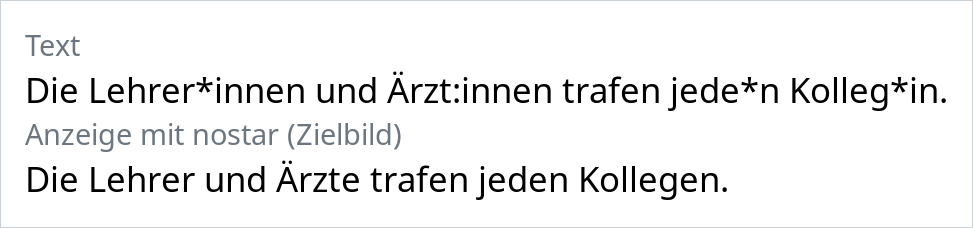
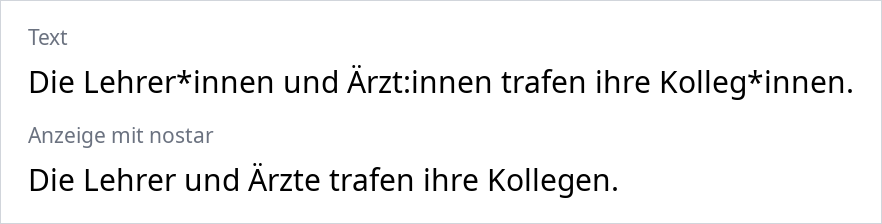
Bring README and specs in line with the implementation
- README: status, installation, real before/after image, Qt gap
- SPEZIFIKATION: status, compound forms, stage note in 4.5, harfrust
- TECHNIK: status, module tree, gsettings, fc-cache steps, log and
  error examples
- gsub.svg: leaf size 40, ending rule instead of minimized stem rule

diff --git a/TECHNIK.md b/TECHNIK.md
@@ -1,6 +1,6 @@
 # Technische Spezifikation: `nostar`
 
-Status: Entwurf 2 · Stand: 2026-10-27 · Grundlage: [SPEZIFIKATION.md](SPEZIFIKATION.md) (Entwurf 3)
+Status: Version 1, umgesetzt und abgenommen · Stand: 2026-10-28 · Grundlage: [SPEZIFIKATION.md](SPEZIFIKATION.md)
 
 Dieses Dokument legt fest, **wie** `nostar` gebaut wird. **Was** das Programm tut, steht in der fachlichen Spezifikation. Abweichungen davon sind in Abschnitt 15 gesammelt (freigegeben am 2026-10-26 und 2026-10-27). Abschnitte 8 und 9 sind nach dem Spike (Meilenstein 1) überarbeitet.
 
@@ -53,8 +53,8 @@ src/
 ├── source.rs          Wörterbuch laden, prüfen, parsen
 ├── lexicon.rs         Wörterbuch-Modell + eigene Wörter
 ├── rules/
-│   ├── mod.rs         Typen: Rule, Pattern, Marker, Stage, Boundary
-│   ├── fixed.rs       Stufe 1: feste Formen, Partizipien
+│   ├── mod.rs         Typen: Rule, Stage, Marker, Left, Right; Testsammlung
+│   ├── fixed.rs       Stufe 1: feste Formen, substantivierte Adjektive, Adjektivendung
 │   ├── build.rs       lexicon → Regelliste (Varianten, Minimierung, Ordnung)
 │   ├── edit.rs        Edit-Skript, Anker und Pass je Regel
 │   ├── engine.rs      Referenz-Umsetzung auf Text
@@ -118,7 +118,7 @@ Verboten: `rules` kennt keine Fonts, `font` kennt kein Dateisystem außer Ein- u
 
 **Nicht** verwendet: `anyhow`, `tokio`, HTTP-Clients, `regex`, `chrono`, `rayon`, Logging-Frameworks.
 
-Externe Programme (per `std::process::Command`): `fc-list`, `fc-match`, `fc-cache`, `curl` (nur `data update`).
+Externe Programme (per `std::process::Command`): `fc-list`, `fc-match`, `fc-cache`, `curl` (nur `data update`), `gsettings` (optional, 10.3).
 
 Entwicklerwerkzeug, nicht Teil des Programms: HarfBuzz (C) für die Geschwindigkeitsmessung (9.7, 14.1).
 
@@ -545,11 +545,11 @@ Die schreibenden Befehle `data update`, `rules build`, `apply` und `remove` hole
 5. Veraltete Kopien löschen
 6. Manifest atomar schreiben
 7. `99-nostar.conf` atomar schreiben
-8. `fc-cache` aufrufen
+8. `fc-cache -f ~/.local/share/fonts` aufrufen und mit `fc-list` prüfen, dass alle Kopien sichtbar sind (10.4)
 
 Ein Abbruch zwischen 4 und 7 lässt das System funktionsfähig: Neue Kopien ohne Regel in `99-nostar.conf` sind zusätzliche Fonts gleichen Namens. Der nächste `apply` räumt auf.
 
-Ein Font gilt als unverändert, wenn er im Manifest steht, die SHA-256 von Original und `rules.tsv` mit dem Manifest übereinstimmen und die Kopie existiert. Schlägt der Patch eines Fonts fehl, der schon eine Kopie hat, wird die alte Kopie gelöscht, damit das Original sichtbar bleibt (fachl. Spezifikation 9.2). Ändert sich nichts, schreibt `apply` keine Datei und ruft `fc-cache` nicht auf.
+Ein Font gilt als unverändert, wenn er im Manifest steht, die SHA-256 von Original und `rules.tsv` mit dem Manifest übereinstimmen und die Kopie existiert. Schlägt der Patch eines Fonts fehl, der schon eine Kopie hat, wird die alte Kopie gelöscht, damit das Original sichtbar bleibt (fachl. Spezifikation 9.2). Ändert sich nichts, schreibt `apply` keine Datei und ruft `fc-cache` nur auf, wenn `fc-list` Kopien nicht zeigt.
 
 `--dry-run` ordnet die Kandidaten ein (patchen, unverändert, übersprungen mit Grund, zu löschende Kopien), patcht aber nicht; ob ein Patch fehlschlagen würde, zeigt es daher nicht.
 
@@ -642,7 +642,7 @@ Ausnahme beim Zustand vor dem ersten `apply` (fachl. Spezifikation 13.2, Punkt 6
 Format einer Zeile:
 
 ```
-2026-10-26T13:40:01Z INFO  font: patched /usr/share/fonts/noto/NotoSans-Regular.ttf rules=14308 size=+970KiB time=620ms
+2026-10-28T10:47:01Z INFO  font: patched /usr/share/fonts/noto/NotoSans-Regular.ttf rules=25212 lookups=1491 size=+1130KiB time=1016ms
 ```
 
 Zeitstempel in UTC aus `SystemTime` (eigene Umrechnung, keine Abhängigkeit). Das `target` ist der Modulname.
@@ -679,13 +679,17 @@ error: rules: rules.tsv missing, run "nostar rules build"
 error: rules: rules.tsv built from other config, run "nostar rules build"
 error: rules: 3 of 214 cases differ
   "Kolleg*innen": expected "Kollegen", got "Kolleg"
-error: font: NotoSans-Regular.ttf: no glyph for U+00E4
-error: font: NotoSans-Regular.ttf: GSUB: subtable of lookup 12 exceeds 64 KiB after split
-error: verify: NotoSans-Regular.ttf: "Ärzt*in" shaped as "Ärzt*in", expected "Arzt"
 error: lock: held by another nostar process: ~/.local/state/nostar/lock
 error: fontconfig: fc-cache exit status 1: <stderr von fc-cache>
 error: fontconfig: ~/.config/fontconfig/conf.d is a file, not a directory
 error: fontconfig: 12 of 42 patched copies not listed after fc-cache, e.g. ~/.local/share/fonts/nostar/usr/share/fonts/noto/NotoSerif-Regular.ttf
+```
+
+Fehler eines einzelnen Fonts brechen `apply` nicht ab. Sie stehen in der Zusammenfassung hinter `failed` (Pfad und Grund) und im Log:
+
+```
+failed       1  /usr/share/fonts/TTF/Foo.ttf: write: more than 65535 lookups
+failed       1  /usr/share/fonts/TTF/Foo.ttf: verify: "Ärzt*in" shaped as "Ärzt*in", expected "Arzt"
 ```
 
 ### 12.1 Exit-Codes

diff --git a/SPEZIFIKATION.md b/SPEZIFIKATION.md
@@ -1,6 +1,6 @@
 # Spezifikation: `nostar`
 
-Status: Entwurf 3 · Stand: 2026-10-27
+Status: Version 1, abgenommen · Stand: 2026-10-28
 
 ---
 
@@ -82,7 +82,7 @@ Steht nach der Endung noch ein Wortteil (Zusammensetzung), wird nur die Genderfo
 | Kund\*innenservice | Kundenservice |
 | Lehrer\*innen-Konferenz | Lehrer-Konferenz |
 
-Die Zielform für Zusammensetzungen (Fugenform) wird im Wörterbuch geführt. Fehlt sie, wird die Plural-Zielform verwendet.
+Die Zielform für Zusammensetzungen ist die Plural-Zielform. Eine abweichende Fugenform kann in den eigenen Ergänzungen angegeben werden (Abschnitt 11; das Entgendert-Wörterbuch führt keine Fugenformen).
 
 ### 4.4 Groß- und Kleinschreibung
 
@@ -95,7 +95,7 @@ Die Zielform übernimmt die Schreibweise des Originals.
 
 ### 4.5 Verbindliche Beispiele
 
-Diese Fälle sind Teil der Testsammlung (13.1) und müssen exakt so angezeigt werden.
+Diese Fälle sind Teil der Testsammlung (13.1) und müssen exakt so angezeigt werden. Die Spalte „Stufe“ nennt, woher die Zielform fachlich stammt. `nostar show` kann Stufe 4 melden, wo hier 2 steht (z.B. „Lehrer\*innen“, „Kolleg\*in“): Liefert die Endungsregel dasselbe Ergebnis, wird die Wörterbuchregel beim Bauen weggelassen (TECHNIK.md 8.3).
 
 | Text | Anzeige | Stufe |
 |---|---|---|
@@ -373,7 +373,7 @@ Punkte 1–8 entschieden am 2026-10-26 (Punkt 5 geändert am 2026-10-27), Punkte
 | 5 | Neutrale Formen („Studierende“) | Nicht in Version 1 (4.6); Einstellung `participles` entfällt; entschieden 2026-10-27 |
 | 6 | Monospace-Fonts ausnehmen | Nein; mit Wörterbuch ist das Risiko für Code gering |
 | 7 | Automatisch nach Paket-Updates neu patchen | Nein; `status` weist auf veraltete Kopien hin |
-| 8 | Programmiersprache | Rust (fontations: `read-fonts`, `write-fonts`, `skrifa`) |
+| 8 | Programmiersprache | Rust (fontations: `read-fonts`, `write-fonts`; Prüfung mit `harfrust`) |
 | 9 | Feste Formen mit weiblicher Form vorne (`die*der`, `sie*er`) | Nicht in Version 1 (4.6); entschieden 2026-10-27 |
 | 10 | Maß für die Geschwindigkeit | Mehraufwand in ms je MB statt Verhältnis (8.3); entschieden 2026-10-27 |
 | 11 | Binnen-I | Bleibt an, trotz etwa 2–10 % Mehraufwand bei Prosa (Großbuchstabe `I` in „Ihre“, „Ihnen“); entschieden 2026-10-27 |

diff --git a/README.md b/README.md
@@ -6,7 +6,7 @@ Zeigt gegenderte Wörter auf dem ganzen Linux-Desktop im generischen Maskulinum 
 
 `nostar` ändert keinen Text. Es baut Regeln in Kopien deiner Schriftarten ein. Beim Zeichnen wird aus `Lehrer*innen` dann „Lehrer“, aus `Ärzt:innen` „Ärzte“. Kopieren, Suchen und Speichern sehen weiterhin den Originaltext.
 
-> Status: Spezifikation. Noch kein Code.
+> Status: Version 1, abgenommen am 2026-10-28 (GTK, Qt, Firefox, Chrome).
 
 ## So funktioniert es
 
@@ -18,6 +18,14 @@ Zeigt gegenderte Wörter auf dem ganzen Linux-Desktop im generischen Maskulinum 
 
 Systemdateien werden nicht verändert, root-Rechte sind nicht nötig.
 
+## Installation
+
+Voraussetzungen: Rust ab 1.89, fontconfig (`fc-list`, `fc-match`, `fc-cache`), `curl`.
+
+```sh
+cargo install --path .   # installiert ~/.cargo/bin/nostar
+```
+
 ## Benutzung
 
 ```sh
@@ -26,7 +34,7 @@ nostar rules build      # Regelliste erzeugen und testen
 nostar apply            # Fonts patchen und einrichten
 ```
 
-Danach laufende Programme neu starten.
+Danach laufende Programme neu starten. Nach Updates der System-Schriften zeigt `nostar status` veraltete Kopien; `nostar apply` aktualisiert sie.
 
 ```sh
 nostar show "jede*r Kolleg*in"   # Was würde angezeigt? -> jeder Kollege
@@ -39,7 +47,7 @@ nostar remove                    # Alles rückgängig machen
 `~/.config/nostar/config.toml`. Alle Schlüssel sind optional.
 
 ```toml
-families = ["Adwaita Sans", "JetBrains Mono"]   # zusätzlich zu sans-serif/serif/monospace
+families = ["JetBrains Mono"]                   # zusätzlich zu sans-serif/serif/monospace und den GNOME-Schriften
 markers  = ["*", ":", "_", "·", "/", "/-"]
 fallback = "cut"                                # unbekannte Wörter: "cut" | "marker" | "off"
 
@@ -53,6 +61,7 @@ plural   = "Freunde"
 - Wirkt nur, wo Programme Systemschriften nutzen. Webfonts, PDFs, Electron-Apps und Text in Bildern bleiben unverändert.
 - Keine Grammatik: „mit den Lehrer\*innen“ wird zu „mit den Lehrer“.
 - Wird ein Wort in Stücken gezeichnet (teilweise fett, Zeilenumbruch), greift die Regel nicht.
+- Qt-Programme mit einem Font ohne Glyphe für den weichen Trennstrich (z.B. Noto Sans Mono): Wörter mit weichem Trennstrich werden nur teilweise umgewandelt.
 
 ## Dokumentation
 
